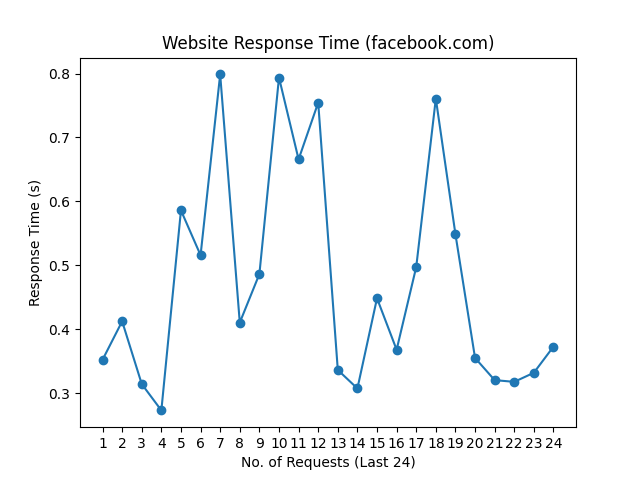
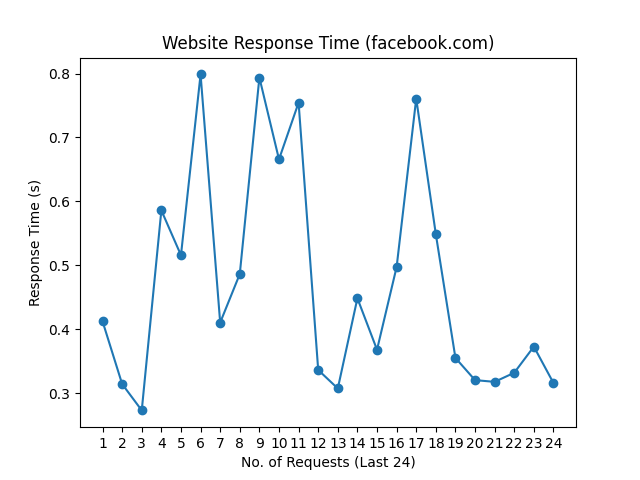
update README.md, history and graph

Changed region(s): [[0.1562, 0.125, 0.875, 0.875]]

diff --git a/README.md b/README.md
@@ -1,10 +1,10 @@
 # Web Monitoring
 
-Last Checked: 29/10/2023 09:03
+Last Checked: 30/10/2023 09:00
 
 | Website | Response Time (s) | Status | Avg Uptime (%) |
 |---------|-------------------|--------|----------------|
 | www.thiswebsiteisdown.net | 0 <br> <img src="graph/thiswebsiteisdown.net.png" alt="Graph" width="200" height="200">  | ❌ Down | 0.00 |
-| www.netflix.com | 0.855729 <br> <img src="graph/netflix.com.png" alt="Graph" width="200" height="200">  | ✅ Up | 100.00 |
-| www.google.com | 0.100212 <br> <img src="graph/google.com.png" alt="Graph" width="200" height="200">  | ✅ Up | 100.00 |
-| www.facebook.com | 0.372828 <br> <img src="graph/facebook.com.png" alt="Graph" width="200" height="200">  | ✅ Up | 100.00 |
+| www.netflix.com | 0.607741 <br> <img src="graph/netflix.com.png" alt="Graph" width="200" height="200">  | ✅ Up | 100.00 |
+| www.google.com | 0.247669 <br> <img src="graph/google.com.png" alt="Graph" width="200" height="200">  | ✅ Up | 100.00 |
+| www.facebook.com | 0.315935 <br> <img src="graph/facebook.com.png" alt="Graph" width="200" height="200">  | ✅ Up | 100.00 |
